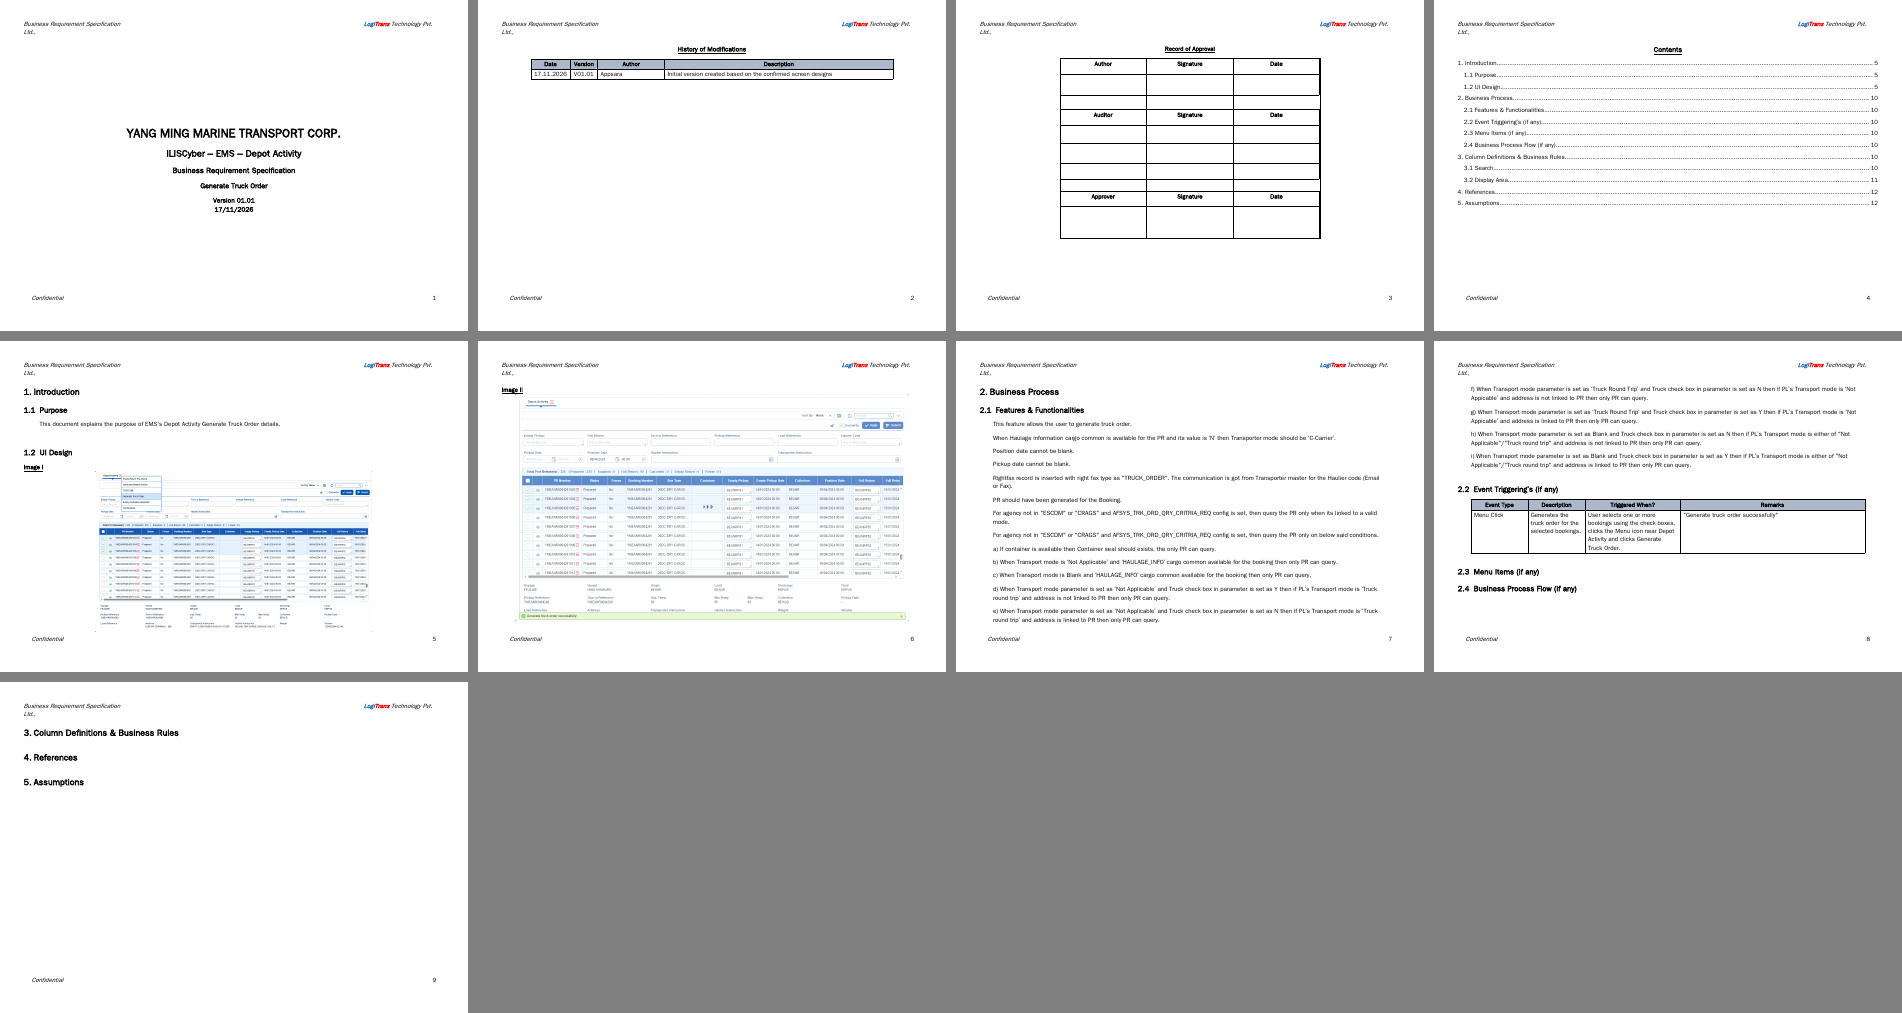
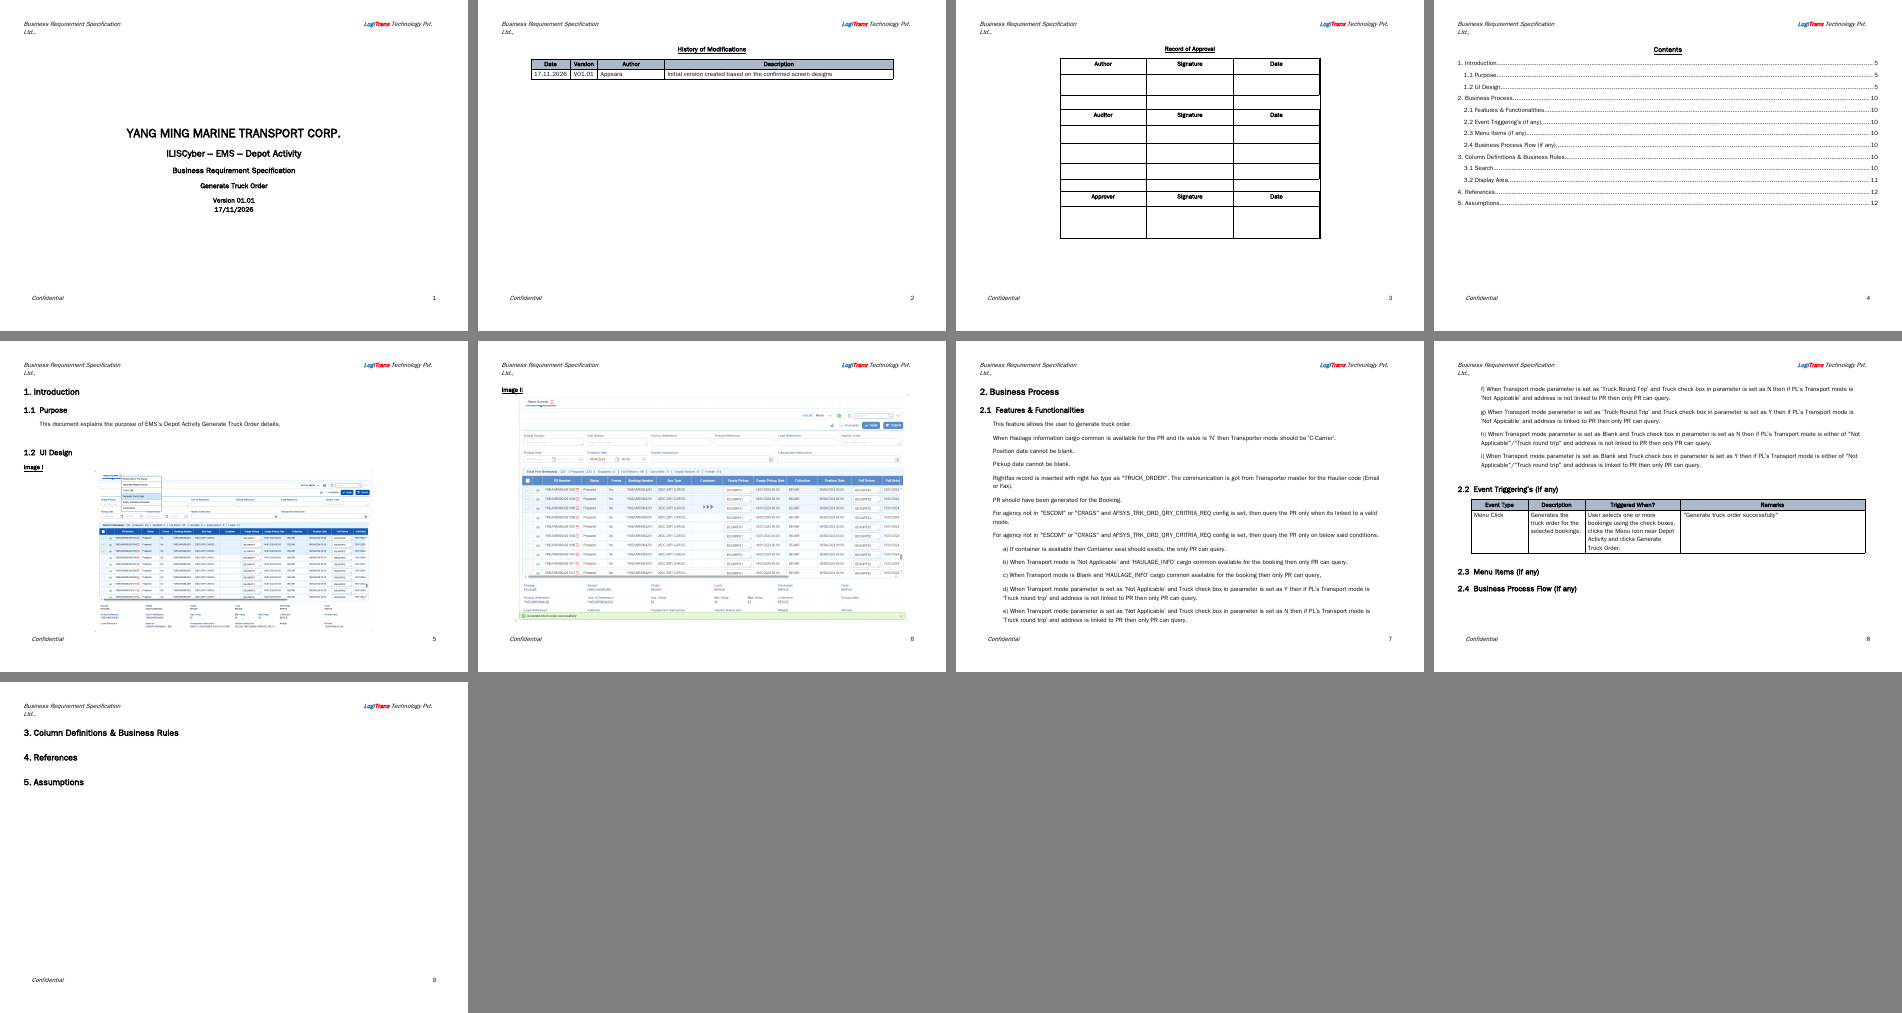
brs_docx: indent a)-i) sub-conditions in 2.1; fn 4 rebuilt

Changed region(s): [[0.7755, 0.3672, 0.9616, 0.459], [0.5273, 0.5508, 0.7135, 0.612]]

diff --git a/tools/brs_docx.py b/tools/brs_docx.py
@@ -292,7 +292,8 @@ def layout(doc):
         off = int(ind.get(qn('w:w'))) if ind is not None else 0
     for p in body_between(doc, i):
         if p.text.strip():
-            p.paragraph_format.left_indent = Emu(off * 635)
+            sub = 360 if re.match(r'^[a-z]\) ', p.text.strip()) else 0  # a) b) ... sub-conditions sit one step in
+            p.paragraph_format.left_indent = Emu((off + sub) * 635)
             p.paragraph_format.right_indent = Emu(off * 635)
 
 

diff --git a/.github/skills/iliscyber-brs/SKILL.md b/.github/skills/iliscyber-brs/SKILL.md
@@ -109,7 +109,7 @@ A BRS is written per FUNCTION, never per manual.
 - **1.2 UI Design:** the approved images.
 
 ## Step 4 - Business Process
-- **2.1 Features & Functionalities:** first the manual's definition of the function (its overview page sentence, worded as in the manual, for example Empty Return Pre Advise: "This feature allows the user to generate Pre Advice FCL file for Empty Return PR/Containers."), then the manual's pre-defined conditions, one item per condition, worded as in the manual (for example Generate Release Advise: "Port release should be generated…", "Both booking and PR information should be available."). BLANK only if the manual has neither. Never put pre-conditions in Remarks or Triggered When.
+- **2.1 Features & Functionalities:** first the manual's definition of the function (its overview page sentence, worded as in the manual, for example Empty Return Pre Advise: "This feature allows the user to generate Pre Advice FCL file for Empty Return PR/Containers."), then the manual's pre-defined conditions, one item per condition, worded as in the manual (for example Generate Release Advise: "Port release should be generated…", "Both booking and PR information should be available."). BLANK only if the manual has neither. Never put pre-conditions in Remarks or Triggered When. Nested sub-conditions: the parent condition is one line, then each sub-condition is its own line labelled a), b), c)..., which the builder indents one step further (Generate Truck Order). Replace the export's stray "&D" marks with double quotes.
 - **2.2 Event Triggering's (if any):** see Step 6.
 - **2.3 Menu Items:** BLANK.
 - **2.4 Business Process Flow:** BLANK.

diff --git a/work/brs/EMS_Help_Manual_depot/PROGRESS.md b/work/brs/EMS_Help_Manual_depot/PROGRESS.md
@@ -20,5 +20,5 @@ Author: Appsara
 - 17.11.2026 - Fn 3 TOPS XML: user chose the page image (6-item menu) for Image I; no twin, rebuilt by part swaps from the Generate Release Advise page image (menu at +3,-35 cut around letters; Generate Truck Order item at +3,-3; left shadow +3,-5; check box column +3,-3) and same-screen shadow/margin; gate passed. Image II = success screen, frame only.
 - 17.11.2026 - Fn 3: 2.1 (definition + 1 condition) and 2.2 (1 Menu Click row) approved; built output/EMS/BRS - EMS - Depot Activity - TOPS XML V_1.0.docx (8 pages). Approved; brs_plan done recorded (01.01).
 - 17.11.2026 - Fn 4 Generate Truck Order: Image I = menu step repaired from its twin (page image), gate passed with 0 px differing from the twin; Image II = success screen, frame only. Awaiting image OK.
-- 17.11.2026 - Fn 4: images approved; 2.1 approved (definition + 7 conditions, item 7 sub-conditions as a) to i) lines); 2.2 Menu Click row approved. Built output/EMS/BRS - EMS - Depot Activity - Generate Truck Order V_1.0.docx (9 pages). Awaiting document OK.
+- 17.11.2026 - Fn 4: images approved; 2.1 approved (definition + 7 conditions, item 7 sub-conditions as a) to i) lines); 2.2 Menu Click row approved. Built output/EMS/BRS - EMS - Depot Activity - Generate Truck Order V_1.0.docx (9 pages); a)-i) lines indented one step (brs_docx layout). Awaiting document OK.
 - NEXT: fn 4 brs_plan done, then fn 5 Empty Container Admission.
